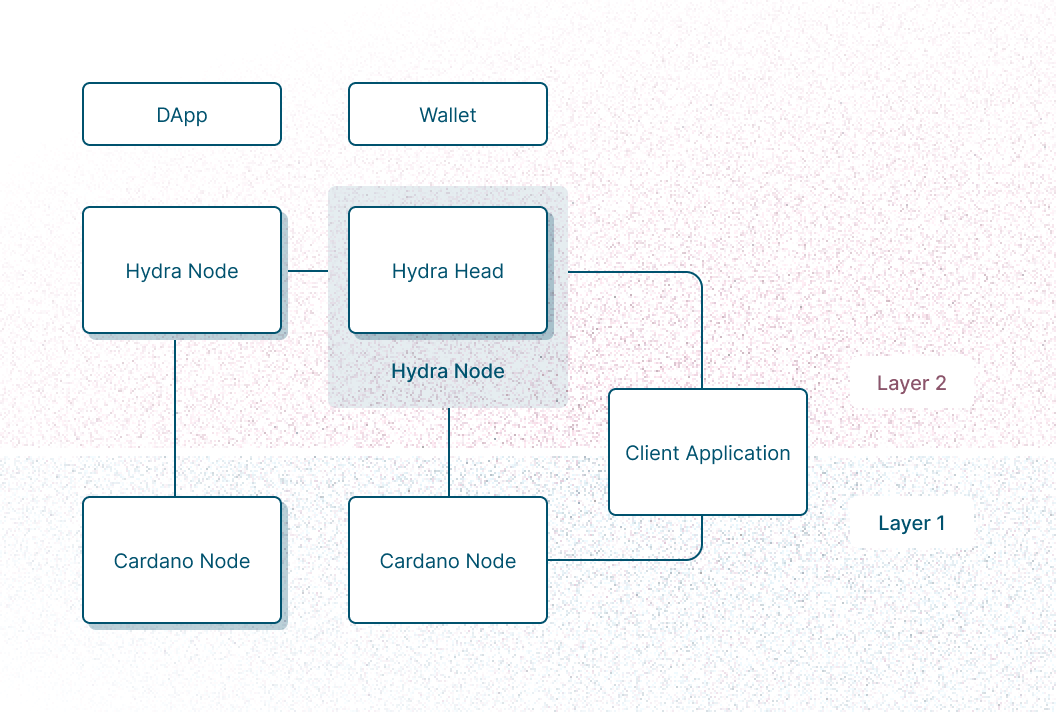
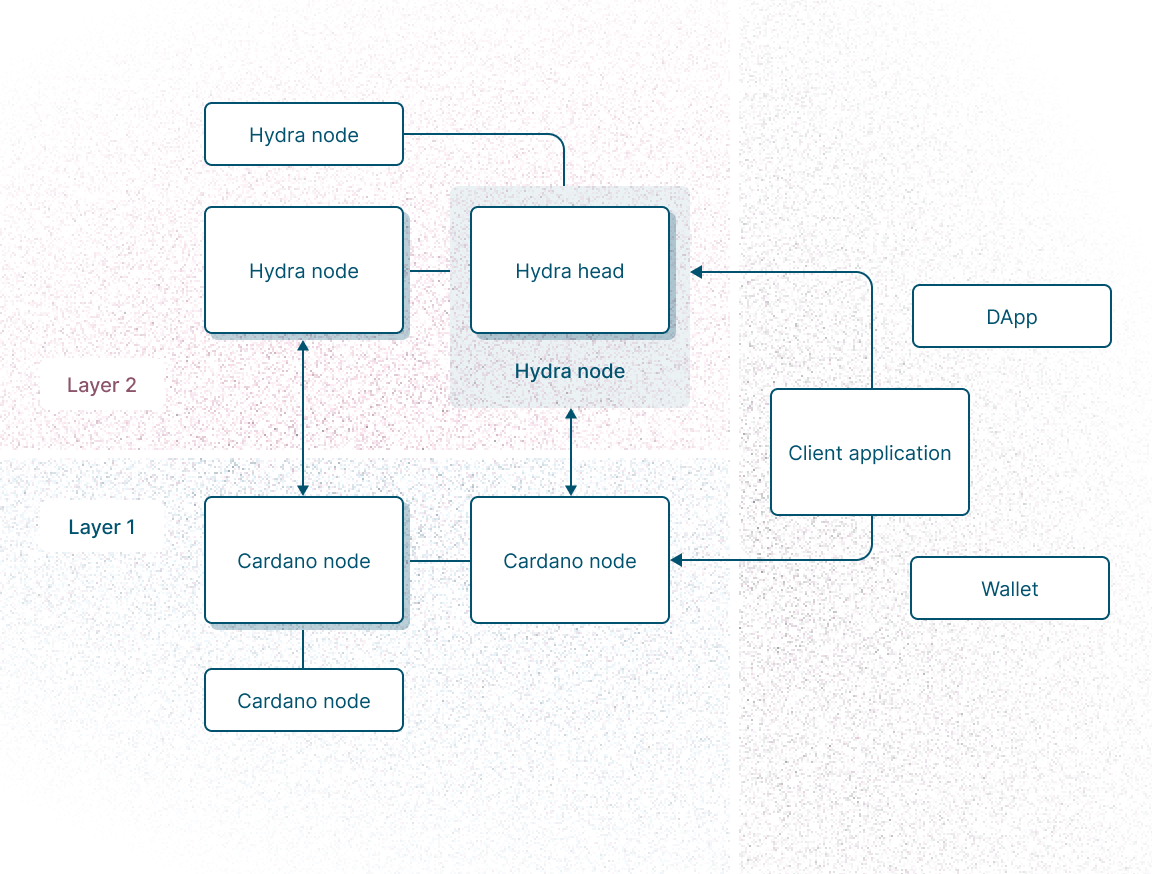
filip(fix): landing page ammends

diff --git a/docs/src/components/homepage/CaseStudies.tsx b/docs/src/components/homepage/CaseStudies.tsx
@@ -2,11 +2,12 @@ import React, { FC } from "react";
 import Link from "@docusaurus/Link";
 import Arrow from "../icons/Arrow";
 import useMediaQuery from "../../hooks/useMediaQuery";
-import { forLaptop } from "../../../helpers/media-queries";
+import { forLaptop, forTabletOnly } from "../../../helpers/media-queries";
 import { motion } from "framer-motion";
 import { FeaturedCaseStudy } from "../../../docs/homepage/case-studies";
 
 const CaseStudies: FC = () => {
+  const isTabletOnly = useMediaQuery(forTabletOnly);
   const isLaptopUp = useMediaQuery(forLaptop);
   return (
     <section className="bg-teal-extralight">
@@ -24,14 +25,14 @@ const CaseStudies: FC = () => {
         <h5 className="text-base text-teal pb-14">/ CASE STUDIES</h5>
         <div className="bg-white flex tablet:flex-row flex-col rounded-2xl overflow-hidden laptop:mb-10 tablet:p-8 justify-between gap-8">
           <div className="flex flex-col laptop:pt-20 gap-8 laptop:max-w-md px-4 py-8 tablet:p-0 tablet:basis-2/5">
-            <h4 className="text-2xl text-teal font-medium">Case Studies</h4>
+            <h4 className="text-2xl text-teal font-medium">Case studies</h4>
             <p>{FeaturedCaseStudy.content}</p>
             <Link
               className="bg-none text-teal self-start inline-flex gap-3 group hover:no-underline hover:text-teal"
               href="/use-cases"
             >
               {"View case studies "}
-              <Arrow className="mt-1 rounded-full group-hover:bg-teal/15" />
+              <Arrow className="mt-[3px] rounded-full group-hover:bg-teal/15" />
             </Link>
           </div>
           <motion.div
@@ -48,7 +49,9 @@ const CaseStudies: FC = () => {
             <img
               width={!isLaptopUp ? "100%" : "auto"}
               src={
-                isLaptopUp ? FeaturedCaseStudy.src : FeaturedCaseStudy.mobileSrc
+                isTabletOnly
+                  ? FeaturedCaseStudy.tabletSrc
+                  : FeaturedCaseStudy.src
               }
               className="tablet:rounded-2xl rounded-none"
             />

diff --git a/docs/src/theme/Footer/Layout/index.js b/docs/src/theme/Footer/Layout/index.js
@@ -1,8 +1,8 @@
 import React from "react";
 import clsx from "clsx";
-import Github from "../../../components/icons/Github";
 import Link from "@docusaurus/Link";
 import { useIsLandingPage } from "../../../hooks/useIsLandingPage";
+import HydraLogo from "../../../components/icons/HydraLogo";
 
 export default function FooterLayout({ style, links, logo, copyright }) {
   const isLandingPage = useIsLandingPage();
@@ -33,17 +33,16 @@ export default function FooterLayout({ style, links, logo, copyright }) {
             )}
           >
             <div className="inline-flex items-center text-teal-light">
-              <Github className="shrink-0" width={24} height={24} />
+              <HydraLogo className="shrink-0" width={24} height={24} />
               <span className="border-l pl-4 ml-4 text-xl leading-[27px]">
-                Join the conversation
+                Join the family
               </span>
             </div>
             <Link
               className="px-4 py-3 justify-center text-center border text-sm border-solid bg-teal-lightest border-teal font-bold text-teal rounded-lg no-underline hover:bg-white hover:no-underline hover:text-teal"
-              target="_blank"
-              to={"https://github.com/cardano-scaling/hydra"}
+              to={"/docs/get-involved"}
             >
-              Go Github
+              Get involved
             </Link>
           </div>
           {copyright}

diff --git a/docs/docs/homepage/case-studies.ts b/docs/docs/homepage/case-studies.ts
@@ -4,8 +4,8 @@ export const FeaturedCaseStudy = {
   content: translate({
     id: "homepage.caseStudy.content",
     message:
-      "From enabling micropayments with near-zero fees and instant processing to boosting the performanceof decentralized finance (DeFi) applications and enhancing real-time gaming experiences, Hydra can enhance user engagement across various sectors. Discover how Hydra’s cost-efficient, scalable, and low-latency transactions can address real-world problems and support innovative solutions on the Cardano platform.",
+      "From enabling micropayments with near-zero fees and instant processing to boosting the performance of decentralized finance (DeFi) applications and enhancing real-time gaming experiences, Hydra can enhance user engagement across various sectors. Discover how Hydra’s cost-efficient, scalable, and low-latency transactions can address real-world problems and support innovative solutions on the Cardano platform.",
   }),
   src: require("@site/static/img/case-studies.png").default,
-  mobileSrc: require("@site/static/img/case-studies-mobile.png").default,
+  tabletSrc: require("@site/static/img/case-studies-tablet.png").default,
 };

diff --git a/docs/src/components/homepage/HomepageHero.tsx b/docs/src/components/homepage/HomepageHero.tsx
@@ -34,7 +34,7 @@ const HomepageHero: FC = () => {
         />
       </video>
       <div className="pageContainer">
-        <div className="component-sm">
+        <div className="component-lg tablet:py-[72px]">
           <div className="pb-9 tablet:max-w-[485px]">
             <motion.h1
               className="tablet:text-[56px] tablet:leading-[67px] text-4xl leading-[48px] text-teal font-medium pb-4"
@@ -59,7 +59,7 @@ const HomepageHero: FC = () => {
           >
             <Link
               className="inline-block px-4 py-3 border border-solid border-teal font-bold text-sm text-teal rounded-lg no-underline bg-white hover:bg-teal-extralight hover:no-underline hover:text-teal"
-              to="/docs/getting-started"
+              to="/docs/protocol-overview"
             >
               Learn more
             </Link>

diff --git a/docs/src/components/homepage/Carousel/Carousel.tsx b/docs/src/components/homepage/Carousel/Carousel.tsx
@@ -30,11 +30,11 @@ const CarouselEntry: FC<Props> = ({ idx, src, description }) => {
           <div className="flex gap-4">
             <span className="inline-flex gap-[5px]">
               <Square className="mt-1" />
-              Passengers <span className="font-bold">(Participants)</span>
+              Passengers <span className="font-bold">(participants)</span>
             </span>
             <span className="inline-flex gap-[5px]">
               <Triangle className="mt-[3px]" />
-              Luggage <span className="font-bold">(Tokens)</span>
+              Supplies <span className="font-bold">(tokens)</span>
             </span>
           </div>
         )}

diff --git a/docs/docs/homepage/features.tsx b/docs/docs/homepage/features.tsx
@@ -11,13 +11,13 @@ export const FeatureList = [
   {
     title: translate({
       id: "homepage.featureList.lowLatency.title",
-      message: "Low Latency",
+      message: "Low latency",
     }),
     icon: <LowLatency />,
     description: translate({
       id: "homepage.featureList.lowLatency.description",
       message:
-        "Transaction finality is only bounded by Head network latency, resulting in near-instant settlement",
+        "Transaction finality is only bounded by head network latency, resulting in near-instant settlement",
     }),
   },
   {

diff --git a/docs/src/css/custom.css b/docs/src/css/custom.css
@@ -149,6 +149,11 @@ html {
   padding-bottom: 56px;
 }
 
+.component-lg {
+  padding-top: 96px;
+  padding-bottom: 96px;
+}
+
 /* Hide scrollbar for Chrome, Safari and Opera */
 .no-scrollbar::-webkit-scrollbar {
   display: none;
@@ -258,6 +263,10 @@ svg.architecture {
     line-height: normal;
     letter-spacing: -0.18px;
   }
+}
+
+.navbar__brand:hover {
+  color: #283032;
 }
 
 .navbar__item {

diff --git a/docs/src/components/homepage/WhyHydraHead.tsx b/docs/src/components/homepage/WhyHydraHead.tsx
@@ -49,7 +49,7 @@ const WhyHydraHead: FC = () => {
               {`Read ${expanded ? "less" : "more"}`}{" "}
               <Arrow
                 className={clsx(
-                  "mt-1 rounded-full group-hover:bg-teal/15",
+                  "mt-[3px] rounded-full group-hover:bg-teal/15",
                   expanded ? "-rotate-90" : "rotate-90"
                 )}
               />

diff --git a/docs/src/theme/Footer/Links/MultiColumn/index.js b/docs/src/theme/Footer/Links/MultiColumn/index.js
@@ -46,7 +46,6 @@ export default function FooterLinksMultiColumn({ columns }) {
     <div
       className={clsx(
         "grid gap-10 pb-10 max-w-md",
-        "tablet:pb-14 tablet:grid-cols-2 tablet:gap-y-16 tablet:gap-x-0 tablet:max-w-[350px]",
         "laptop:flex laptop:pb-0 laptop:gap-7",
         isLandingPage
           ? "w-full laptop:max-w-[750px]"

diff --git a/docs/src/components/homepage/Features.tsx b/docs/src/components/homepage/Features.tsx
@@ -39,7 +39,7 @@ const Features: FC = () => {
     <section className="component bg-white">
       <div className="pageContainer">
         <motion.h5
-          className="text-base text-teal pb-[72px]"
+          className="text-base text-teal pb-14"
           initial="hidden"
           whileInView="visible"
           viewport={{ once: true }}

diff --git a/docs/src/components/homepage/Carousel/ResponsiveCarousel.tsx b/docs/src/components/homepage/Carousel/ResponsiveCarousel.tsx
@@ -109,7 +109,7 @@ const ResponsiveCarousel: FC = () => {
             centeredSlides={isTabletUp}
             spaceBetween={10}
             ref={sliderRef}
-            loop={!isTabletUp}
+            loop={false}
           >
             {isTabletUp
               ? HowItWorksCarouselContent.map((props, idx) => (

diff --git a/docs/docusaurus.config.js b/docs/docusaurus.config.js
@@ -168,7 +168,7 @@ const config = {
           },
           {
             to: "/docs/dev",
-            label: "Developer Documentation",
+            label: "Developer documentation",
             position: "right",
           },
           //commenting out for the time being
